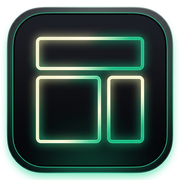
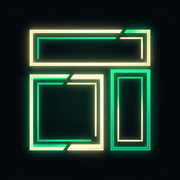
feat(branding): full-bleed dark emblem without white borders and zero-blur WhatsApp square preview

diff --git a/index.html b/index.html
@@ -5,13 +5,13 @@
     <meta name="viewport" content="width=device-width, initial-scale=1.0" />
     <meta name="theme-color" content="#08090c" />
 
-    <!-- Favicon & Touch Icons (Cache-busted v=3) -->
-    <link rel="icon" type="image/x-icon" href="/favicon.ico?v=3" />
-    <link rel="shortcut icon" href="/favicon.ico?v=3" />
-    <link rel="icon" type="image/svg+xml" href="/favicon.svg?v=3" />
-    <link rel="icon" type="image/png" sizes="32x32" href="/favicon-32x32.png?v=3" />
-    <link rel="icon" type="image/png" sizes="16x16" href="/favicon-16x16.png?v=3" />
-    <link rel="apple-touch-icon" sizes="180x180" href="/apple-touch-icon.png?v=3" />
+    <!-- Favicon & Touch Icons (Cache-busted v=5) -->
+    <link rel="icon" type="image/x-icon" href="/favicon.ico?v=5" />
+    <link rel="shortcut icon" href="/favicon.ico?v=5" />
+    <link rel="icon" type="image/svg+xml" href="/favicon.svg?v=5" />
+    <link rel="icon" type="image/png" sizes="32x32" href="/favicon-32x32.png?v=5" />
+    <link rel="icon" type="image/png" sizes="16x16" href="/favicon-16x16.png?v=5" />
+    <link rel="apple-touch-icon" sizes="180x180" href="/apple-touch-icon.png?v=5" />
 
     <title>Anysize - Adaptive Layout Engine for Multi-Surface Ads</title>
     <meta
@@ -19,8 +19,8 @@
       content="A pure TypeScript layout engine that adapts a single ad to any IAB surface size - automatically resizing, repositioning, and priority-pruning elements."
     />
 
-    <!-- WhatsApp / Social Direct Image Source -->
-    <link rel="image_src" href="https://anysize-ads.vercel.app/og-image.jpg?v=3" />
+    <!-- WhatsApp & Direct Messaging Link Preview (Square Full-Bleed Dark Emblem, No White Border, Ultra Sharp) -->
+    <link rel="image_src" href="https://anysize-ads.vercel.app/og-image-square.jpg?v=5" />
 
     <!-- Open Graph / WhatsApp / Facebook / LinkedIn -->
     <meta property="og:type" content="website" />
@@ -31,8 +31,8 @@
       property="og:description"
       content="A pure TypeScript layout engine that adapts a single ad to 13 IAB and social surface sizes dynamically with collision-free geometry, AST generation, and HTML5 export."
     />
-    <meta property="og:image" content="https://anysize-ads.vercel.app/og-image.jpg?v=3" />
-    <meta property="og:image:secure_url" content="https://anysize-ads.vercel.app/og-image.jpg?v=3" />
+    <meta property="og:image" content="https://anysize-ads.vercel.app/og-image.jpg?v=5" />
+    <meta property="og:image:secure_url" content="https://anysize-ads.vercel.app/og-image.jpg?v=5" />
     <meta property="og:image:type" content="image/jpeg" />
     <meta property="og:image:width" content="1200" />
     <meta property="og:image:height" content="630" />
@@ -46,7 +46,7 @@
       name="twitter:description"
       content="A pure TypeScript layout engine that adapts a single ad to 13 IAB and social surface sizes dynamically with collision-free geometry, AST generation, and HTML5 export."
     />
-    <meta name="twitter:image" content="https://anysize-ads.vercel.app/og-image.jpg?v=3" />
+    <meta name="twitter:image" content="https://anysize-ads.vercel.app/og-image.jpg?v=5" />
     <meta name="twitter:image:alt" content="Anysize - Adaptive Layout Engine for Multi-Surface Ads" />
   </head>
   <body>
